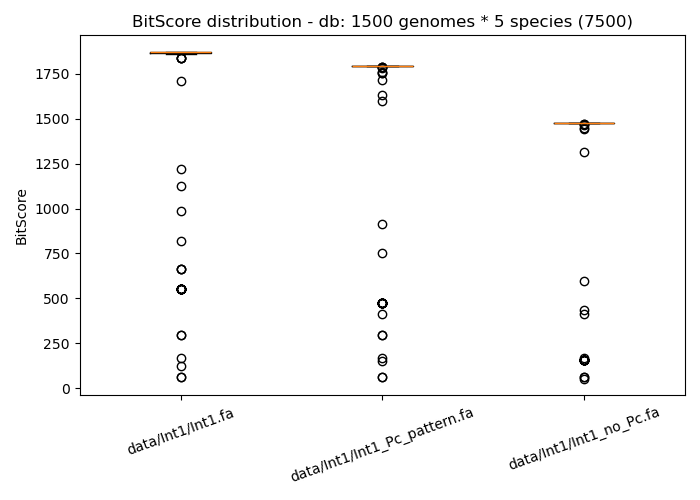
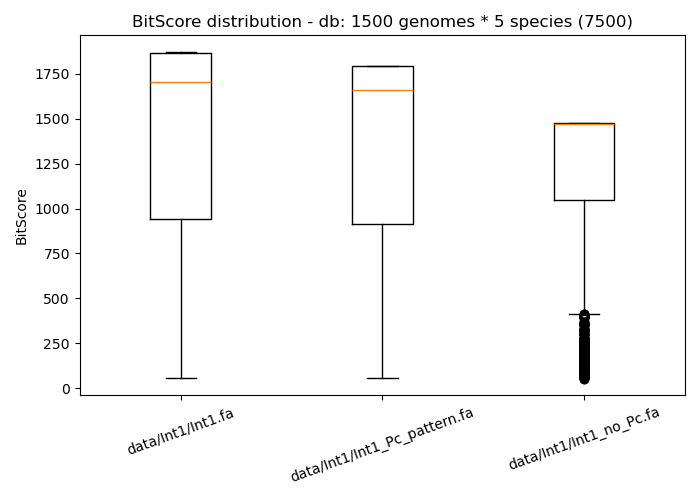
changes

Changed region(s): [[0.21, 0.09, 0.33, 0.78], [0.48, 0.12, 0.6, 0.78], [0.78, 0.24, 0.9, 0.78]]

diff --git a/scripts/optimization.py b/scripts/optimization.py
@@ -10,7 +10,7 @@ import matplotlib.pyplot as plt
 
 # --------Definition of functions
 #------------------------ Function to run blastn
-def run_blastn(query, output, db, max_target_evalue_threshold = 10):
+def run_blastn(query, output, db, max_target, evalue_threshold = 10):
     # FIXME FALTA AÑADIR COSAS DE EVALUES YA ARGS ADDED
     """
     Executes the blastn command with the specified query, output file, and database.
@@ -32,7 +32,7 @@ def run_blastn(query, output, db, max_target_evalue_threshold = 10):
     blast_cmd = ["blastn", "-query", query, # Query fasta file
                  "-db", db, # Blast database
                  "-out", output, 
-                 "-max_target_seqs", 
+                 "-max_target_seqs", str(max_target), # Max number of aligned seqs to keep
                  "-evalue", str(evalue_threshold),
                  "-outfmt", "6"] # Output format 6 (tabular)
     start = time.time() # Start time to measure execution time
@@ -235,19 +235,22 @@ if __name__ == "__main__":
                    "data/Int1/Int1_no_Pc.fa"]
     all_results = {}
     all_times = {}
+    num_genomes_each = 1000
     for each_query in fasta_files:
         name = os.path.basename(each_query)
 
         each_result, each_time = run_blastn(query = each_query, 
-                                 output = f"results/1500genomes/blast_{name}.tsv",
-                                 db = "data/1500genomes/db/db")
+                                 output = f"results/{str(num_genomes_each)}genomes/blast_{name}.tsv",
+                                 db = f"data/{str(num_genomes_each)}genomes/db/db",
+                                 max_target=num_genomes_each * 5 * 5) # max num of seqs to keep: size of db * 5
         
         all_results[each_query] = each_result
         all_times[each_query] = each_time
 
 
     dfs, evalues, bitscore, labels = process_tsv(all_results)
-    outdir = "results/plots/1500genomes"
-    plot_evalue(evalues, labels, title = "E-Values distribution - db: 1500 genomes * 5 species (7500)", outdir = outdir)
-    plot_bitscore(bitscore, labels, title = "BitScore distribution - db: 1500 genomes * 5 species (7500)", outdir = outdir)
-    plot_evalue_thresholds(dfs, all_times, title = "E-Values thresholds - db: 1500 genomes * 5 species (7500)", outdir = outdir)
+    outdir = f"results/plots/{str(num_genomes_each)}genomes"
+    general_title = f"- db: {str(num_genomes_each)} genomes * 5 species ({str(num_genomes_each*5)})"
+    plot_evalue(evalues, labels, title = f"E-Values distribution {general_title}", outdir = outdir)
+    plot_bitscore(bitscore, labels, title = f"BitScore distribution {general_title}", outdir = outdir)
+    plot_evalue_thresholds(dfs, all_times, title = f"E-Values thresholds {general_title}", outdir = outdir)

diff --git a/scripts/generate_db.py b/scripts/generate_db.py
@@ -110,22 +110,22 @@ if __name__ == "__main__":
     flags = datasets_flags(assembly_level="complete,chromosome,contig",
                            exclude_atypical=True,
                            mag=False)
-
+    n_genomes = 1000
     # species to download
     names = {"Ecoli" : "Escherichia coli", 
              "Klebsiella" : "Klebsiella pneumoniae",
              "Pseudomonas" : "Pseudomonas aeruginosa",
              "Acinetobacter" : "Acinetobacter baumannii",
              "Enterobacter" : "Enterobacter"}
-    names2 = {"Acinetobacter" : "Acinetobacter baumannii"}
+
         
-    download_species_genomes(species = names2, 
-                   outdir = "data/1500genomes", 
-                   target_num = 1500, 
+    download_species_genomes(species = names, 
+                   outdir = "data/1000genomes", 
+                   target_num = n_genomes, 
                    flags = flags)
 
     
-    generate_multifasta(path_to_genomes = "data/1500genomes/*/*/ncbi_dataset/data/*/*.fna",
-                        outfile = "data/1500genomes/multifasta_genomes.fasta")
-    generate_db(multifasta = "data/1500genomes/multifasta_genomes.fasta",
-                out_db = "data/1500genomes/db/db")
+    generate_multifasta(path_to_genomes = f"data/{str(n_genomes)}genomes/*/*/ncbi_dataset/data/*/*.fna",
+                        outfile = f"data/{str(n_genomes)}genomes/multifasta_genomes.fasta")
+    generate_db(multifasta = f"data/{str(n_genomes)}genomes/multifasta_genomes.fasta",
+                out_db = f"data/{str(n_genomes)}genomes/db/db")
